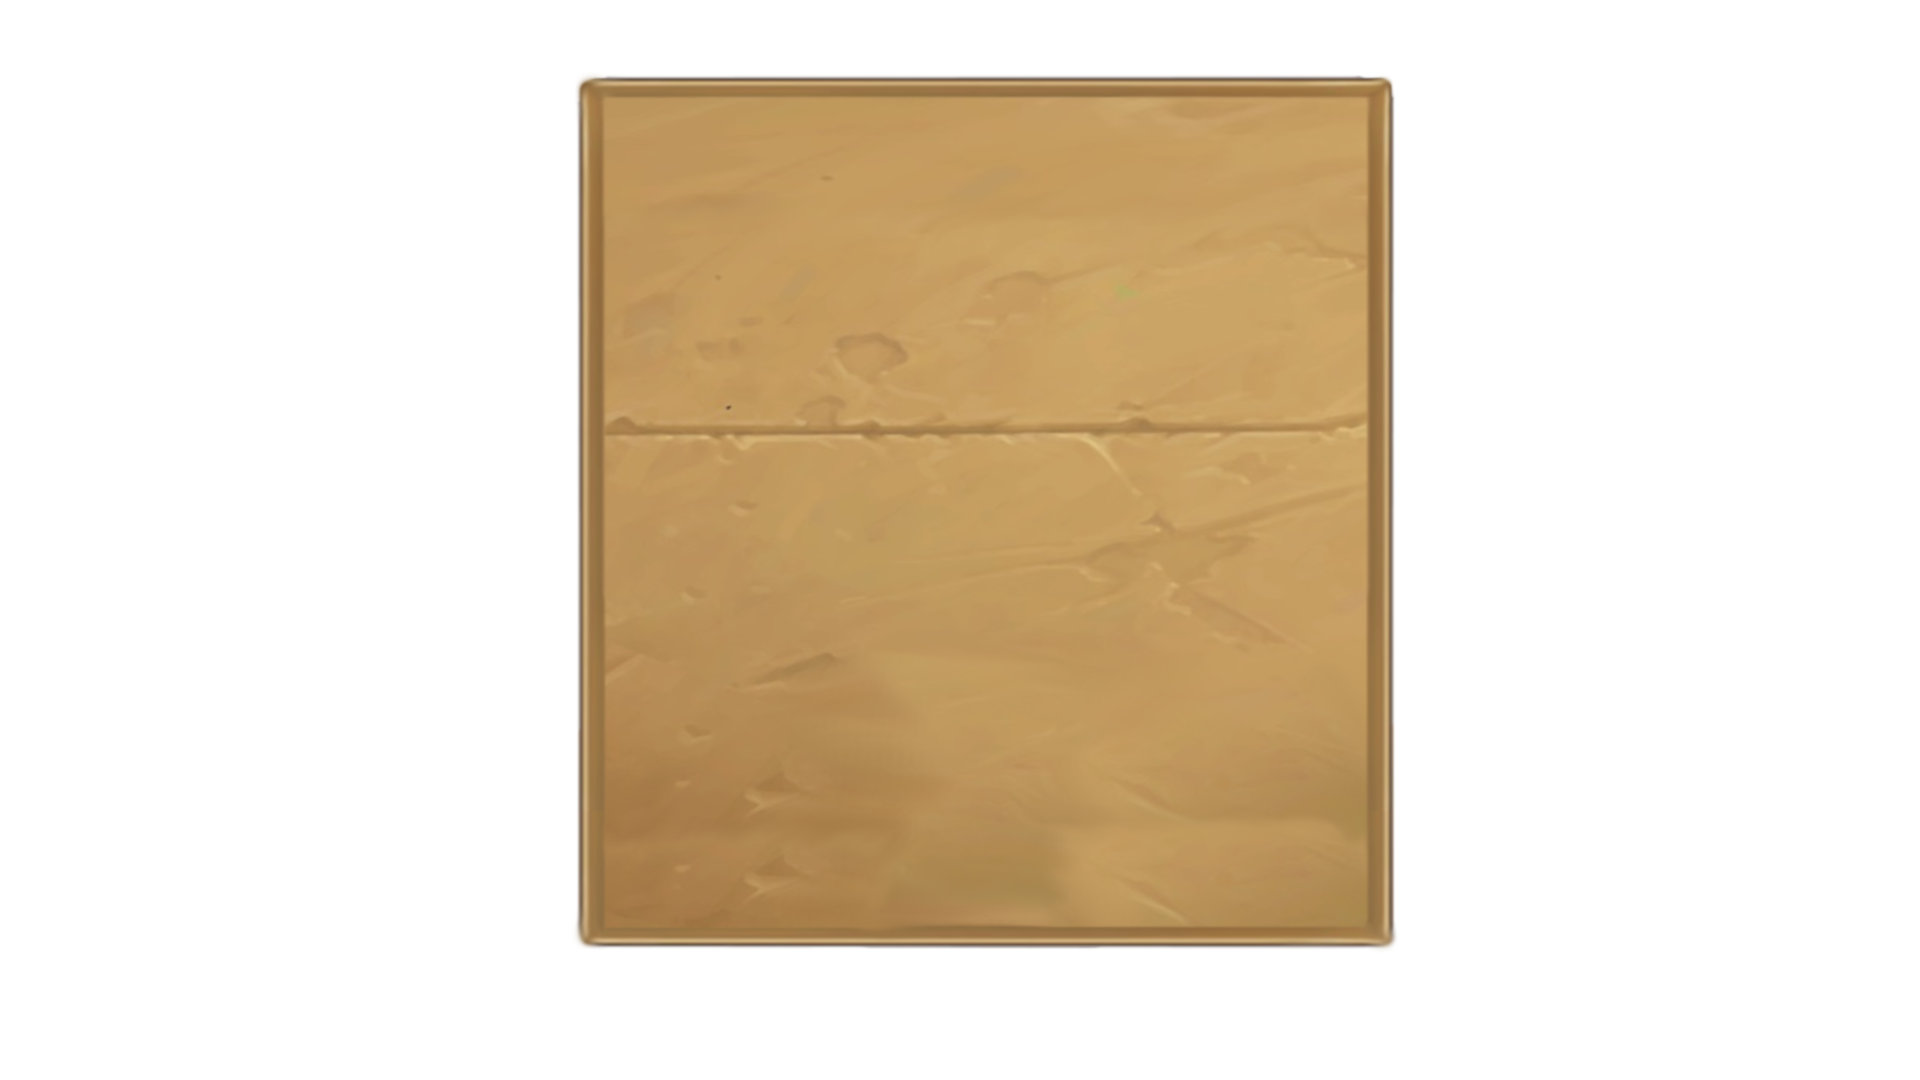
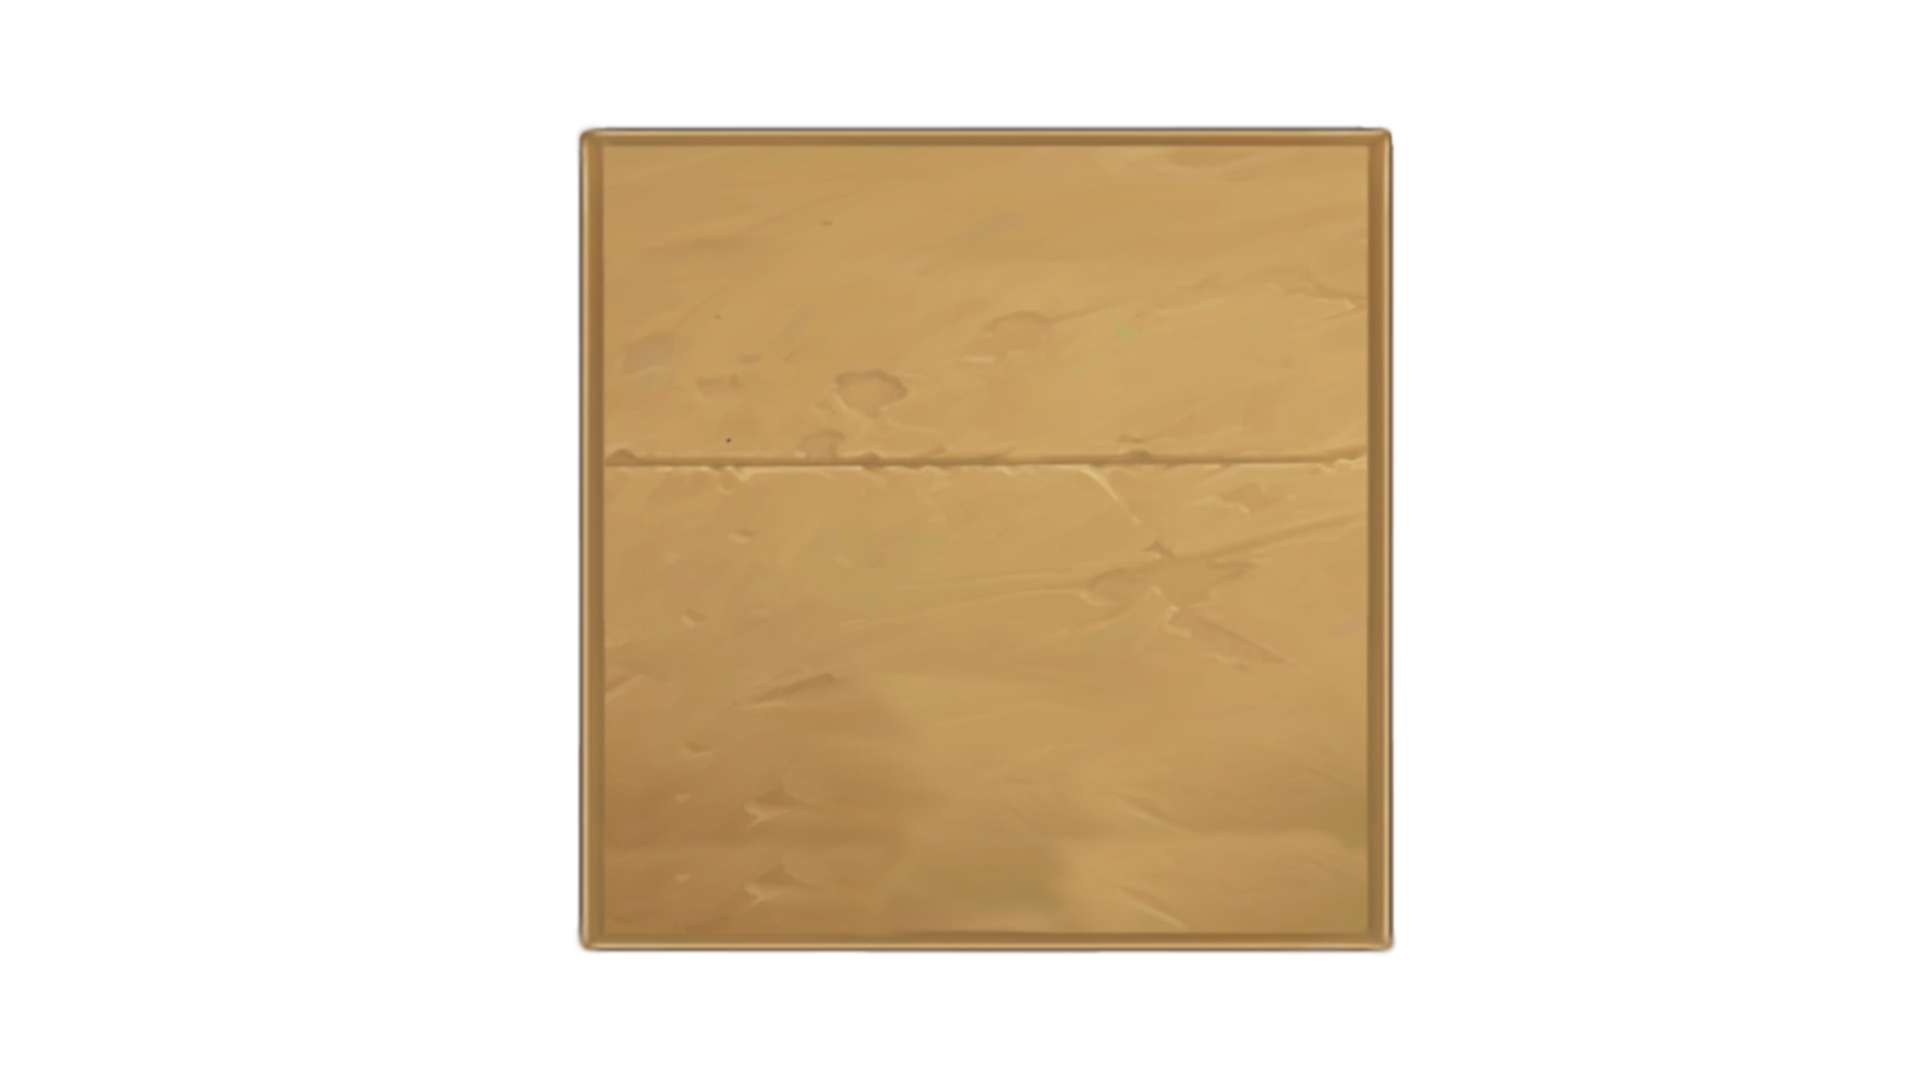
Ajout background

Changed region(s): [[0.2812, 0.0611, 0.75, 0.1528], [0.3125, 0.3667, 0.6875, 0.4583], [0.2812, 0.8556, 0.7188, 0.8861]]

diff --git a/node/public/style.css b/node/public/style.css
@@ -6,16 +6,16 @@ html , body{
 }
 
 body{
-    background-image: url("src/plateau.png");
+    height: 100vh;
+    background-image: url("src/plateau_fond.png");
     background-repeat: no-repeat;
-    background-position: center;
-    background-size: 100%;
+    background-size: cover;
 }
 
 div.hand{
     text-align: center;
     position: fixed;
-    bottom: -50px;
+    bottom: -8%;
     left:50%;
     transform: translate(-50%, -50%);
 }
@@ -37,7 +37,7 @@ div.hand{
     transition: background-color 0.5s ease;
     position: absolute;
     right: 1%;
-    bottom: 50%;
+    bottom: 38%;
     right: 10%;
     background-color: #5EB6DD;
     color: white;
@@ -90,6 +90,12 @@ div.board{
     flex-direction: column;
     width: 100%;
     margin-bottom: 5%;
+
+
+    background-image: url("src/plateau.png");
+    background-repeat: no-repeat;
+    background-position: center;
+    background-size: 100%;
 }
 
 div.board .ligne1,
@@ -177,7 +183,7 @@ div.board .ligne4 .l4col6{
     border-color: #5EB6DD;
     background-color: #88b7d5;
     display:none;
-    top: 75px;
+    top: 70px;
     right: 1%;
     border-radius: 5px 0px 5px 5px;
 }
@@ -268,4 +274,5 @@ div.board .ligne4 .l4col6{
     width: 50px;
     display: none;
     margin-right: 2px;
+    margin-top: 1%;
 }
